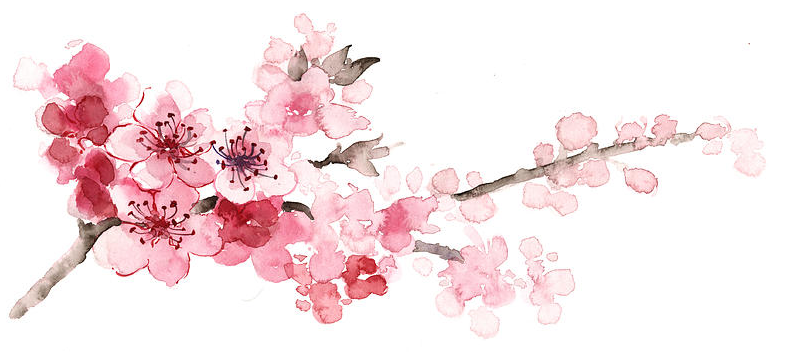
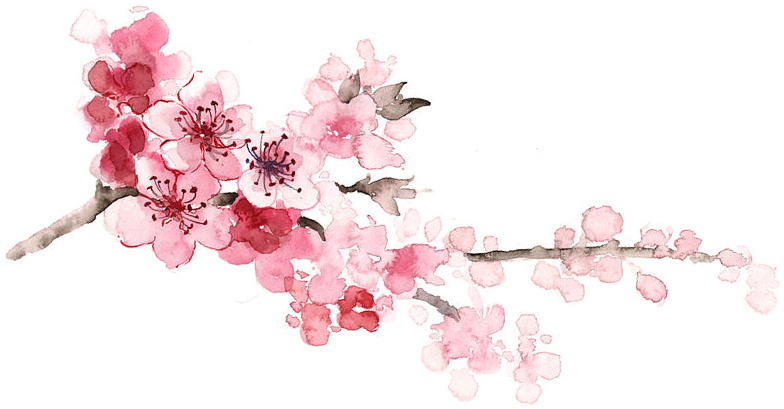
style touch ups, image edits, and activities added

diff --git a/home/templates/home/index.html b/home/templates/home/index.html
@@ -14,27 +14,30 @@
         <img class="blossom floatleft" src="{% static 'home/cherry_blossom_left.png' %}">
         <img class="blossom floatright" src="{% static 'home/cherry_blossom_right.png' %}">
         <div>
-            <p>Lucy and Braden</p>
+            <p style="padding: .5em 0;">Lucy and Braden</p>
         </div>
     </div>
     <div class="links">
         <a href="#" class="pageLink active" onclick="showPage(event, 'home')">Home</a>
         <a href="#" class="pageLink" onclick="showPage(event, 'schedule')">Schedule and Venues</a>
-        <a href="#" class="pageLink" onclick="showPage(event, 'hotel')">Hotel Information</a>
+        <a href="#" class="pageLink" onclick="showPage(event, 'hotel')">Accommodations and Activities</a>
         <a href="#" class="pageLink" onclick="showPage(event, 'registry')">Registries</a>
     </div>
     <div class="center-block">
         <div id="home" class="pageContent" style="display: block;">
-            <p>Welcome to our wedding website!<br>
-            Please save the date for Saturday, April 1, 2017 in Washington, DC</p>
+            <h1>Welcome to our wedding website!</h1>
+            <p>Please save the date for Saturday, April 1, 2017 in Washington, DC</p>
             <img src="{% static 'home/jekyll.jpg' %}">
         </div>
         <div id="schedule" class="pageContent" style="display: none;">
             <p>Details still to come. Please check back later.</p>
         </div>
         <div id="hotel" class="pageContent" style="display: none;">
+            <h1>Accommodations</h1>
             <p>Hotel rooms are being held for the nights of Friday, March 31 and Saturday, April 1 at the Kimpton Hotel Palomar, a few blocks from the church and reception and near Dupont Circle in Washington, DC. Please contact the hotel before March 1, 2017 and ask for the Alexander & Murphy wedding, to get the wedding rate. If you'd like to stay longer, just let them know and they will likely extend the rate for the extra nights. You can call them at 877-866-3070 in the US, or book online at the link below, or access the Kimpton Hotel Palomar Washington DC website and use meeting number 11420107278 when you book your room for these nights.</p>
             <a href="https://gc.synxis.com/rez.aspx?Hotel=26732&Chain=10179&arrive=3/31/2017&depart=4/2/2017&adult=1&child=0&group=11420107278" target="_blank">Kimpton Hotel Palomar</a>
+            <h1>Activities</h1>
+            <p>Washington is a wonderful place to visit with children -- there are numerous Smithsonian museums on the National Mall covering natural history, American history, air & space, and much more. The historic sights landmarks of the White House, Washington Monument, Lincoln and Jefferson memorials. Paddle boats on the Tidal Basin, the National Zoo, the kid-oriented Spy Museum.  We'd love for families to make it a family holiday and we'd be delighted to arrange childcare and activities for children on the day of the wedding.  Please let us know and we can send more information.</p>
         </div>
         <div id="registry" class="pageContent" style="display: none;">
             <p>Details still to come. Please check back later.</p>

diff --git a/home/static/home/style.css b/home/static/home/style.css
@@ -14,6 +14,8 @@ a {
 
 .links a {
     text-decoration: none;
+    font-size: 1.25em;
+    padding: 15px;
 }
 
 .center-block a {
@@ -29,8 +31,8 @@ a.active {
 }
 
 .header {
-    font-size: 52px;
-    margin: 15px;
+    font-size: 3em;
+    margin: .5em auto;
     font-weight: bold;
     font-family: 'Petit Formal Script', cursive;
 }
@@ -49,7 +51,7 @@ a.active {
 }
 
 .blossom {
-    width: 20%;
+    height: 2.25em;
 }
 
 .floatleft {
@@ -61,7 +63,7 @@ a.active {
 }
 
 .links {
-    margin: 20px 15%;
+    margin: 20px 10%;
     display: flex;
     justify-content: space-between;
 }
